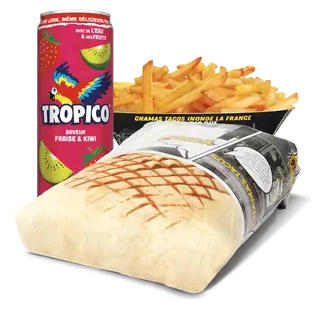
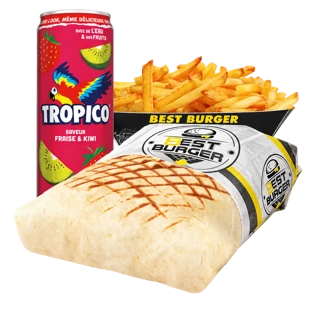
Personnalise les emballages tacos et distingue les tailles L XL XXL

diff --git a/menu.html b/menu.html
@@ -221,7 +221,7 @@
 
         <!-- ===== TACOS ===== -->
         <div class="menu-card" data-cat="tacos">
-          <img class="menu-card__img" src="img/produits/tacos-sm.webp" alt="Tacos L" width="112" height="112" loading="lazy" decoding="async" />
+          <img class="menu-card__img" src="img/produits/tacos-l-sm.webp" alt="Tacos L" width="112" height="112" loading="lazy" decoding="async" />
           <div class="menu-card__body">
             <div class="menu-card__top"><span class="menu-card__name">Tacos L</span></div>
             <div class="menu-card__prices">
@@ -232,7 +232,7 @@
           </div>
         </div>
         <div class="menu-card" data-cat="tacos">
-          <img class="menu-card__img" src="img/produits/tacos-sm.webp" alt="Tacos XL" width="112" height="112" loading="lazy" decoding="async" />
+          <img class="menu-card__img" src="img/produits/tacos-xl-sm.webp" alt="Tacos XL" width="112" height="112" loading="lazy" decoding="async" />
           <div class="menu-card__body">
             <div class="menu-card__top"><span class="menu-card__name">Tacos XL</span></div>
             <div class="menu-card__prices">
@@ -243,7 +243,7 @@
           </div>
         </div>
         <div class="menu-card" data-cat="tacos">
-          <img class="menu-card__img" src="img/produits/tacos-sm.webp" alt="Tacos XXL" width="112" height="112" loading="lazy" decoding="async" />
+          <img class="menu-card__img" src="img/produits/tacos-sm.webp?v=best-burger" alt="Tacos XXL" width="112" height="112" loading="lazy" decoding="async" />
           <div class="menu-card__body">
             <div class="menu-card__top"><span class="menu-card__name">Tacos XXL</span></div>
             <div class="menu-card__prices">

diff --git a/index.html b/index.html
@@ -108,7 +108,7 @@
           </div>
         </div>
         <div class="menu-card" data-reveal data-delay="2">
-          <img class="menu-card__img" src="img/produits/tacos-sm.webp" alt="Tacos XXL" width="112" height="112" loading="lazy" decoding="async" />
+          <img class="menu-card__img" src="img/produits/tacos-sm.webp?v=best-burger" alt="Tacos XXL" width="112" height="112" loading="lazy" decoding="async" />
           <div class="menu-card__body">
             <div class="menu-card__top"><span class="menu-card__name">Tacos XXL</span><span class="menu-card__price">11,50€</span></div>
             <p class="menu-card__desc">3 viandes au choix, sauce fromagère et frites incluses.</p>

diff --git a/galerie.html b/galerie.html
@@ -91,7 +91,7 @@
           <figcaption class="cap">Frite Cheddar</figcaption>
         </figure>
         <figure class="gallery-item wide">
-          <img src="img/produits/tacos.webp" alt="Tacos avec frites et boisson" loading="lazy" decoding="async" />
+          <img src="img/produits/tacos.webp?v=best-burger" alt="Tacos avec frites et boisson" loading="lazy" decoding="async" />
           <figcaption class="cap">Nos Tacos</figcaption>
         </figure>
         <figure class="gallery-item">
